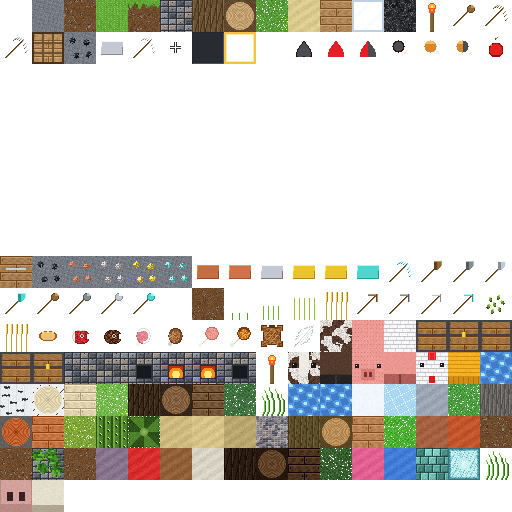
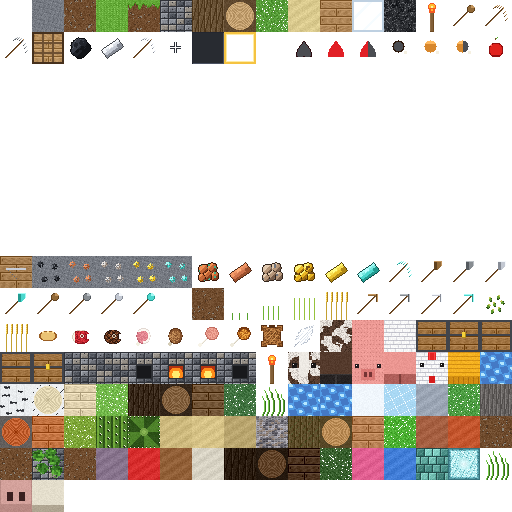
Give Coal, Raw Copper, Raw Iron, Raw Gold, and ingots distinct atlas textures

Changed region(s): [[0.375, 0.5, 0.75, 0.5625], [0.125, 0.0625, 0.25, 0.125]]

diff --git a/scripts/generate_roots_atlas.py b/scripts/generate_roots_atlas.py
@@ -961,20 +961,203 @@ def gen_tool_icon(material_head, tool_type="pickaxe"):
 def gen_ingot(color_light, color_mid, color_dark):
     img = create_tile_canvas()
     pix = img.load()
-    # Isometric retro metal ingot
-    for y in range(9, 23):
-        for x in range(5, 27):
-            in_top = (y <= 14)
-            if in_top:
-                if y == 9 or x == 5:
+    outline = (
+        max(0, color_dark[0] // 2),
+        max(0, color_dark[1] // 2),
+        max(0, color_dark[2] // 2),
+        255,
+    )
+    specular = (
+        min(255, color_light[0] + 20),
+        min(255, color_light[1] + 20),
+        min(255, color_light[2] + 20),
+        255,
+    )
+
+    # Angled isometric forged metal bar (trapezoidal top + front & right beveled faces)
+    def in_bar(x, y):
+        # Slanted bar running from bottom-left to top-right
+        u = (x - 16.0) * 0.82 - (y - 16.0) * 0.57
+        v = (x - 16.0) * 0.57 + (y - 16.0) * 0.82
+        return abs(u) <= 10.5 and abs(v) <= 5.4
+
+    mask = [[in_bar(x, y) for x in range(TILE_SIZE)] for y in range(TILE_SIZE)]
+    for y in range(TILE_SIZE):
+        for x in range(TILE_SIZE):
+            if not mask[y][x]:
+                continue
+            # Check 4-neighbor outline
+            is_edge = (
+                x == 0 or x == TILE_SIZE - 1 or y == 0 or y == TILE_SIZE - 1
+                or not mask[y - 1][x] or not mask[y + 1][x]
+                or not mask[y][x - 1] or not mask[y][x + 1]
+            )
+            if is_edge:
+                pix[x, y] = outline
+                continue
+
+            u = (x - 16.0) * 0.82 - (y - 16.0) * 0.57
+            v = (x - 16.0) * 0.57 + (y - 16.0) * 0.82
+
+            if v < -0.6:
+                # Top forged face with bright specular sheen band
+                if -2.5 <= u <= 1.8 and v < -1.5:
+                    pix[x, y] = specular
+                elif v < -2.8 or u < -6.5:
                     pix[x, y] = color_light
                 else:
-                    pix[x, y] = color_mid
-            else:
-                if y == 22 or x == 26:
+                    pix[x, y] = (
+                        (color_light[0] + color_mid[0]) // 2,
+                        (color_light[1] + color_mid[1]) // 2,
+                        (color_light[2] + color_mid[2]) // 2,
+                        255,
+                    )
+            elif v < 2.2:
+                # Front beveled face
+                if u > 5.0:
                     pix[x, y] = color_dark
                 else:
                     pix[x, y] = color_mid
+            else:
+                # Shaded lower bevel
+                pix[x, y] = color_dark
+    return img
+
+def gen_coal_item(seed=18):
+    img = create_tile_canvas()
+    pix = img.load()
+    # Irregular faceted lump of black coal (no stone block background)
+    lobes = [
+        (14.0, 13.0, 7.6),
+        (20.0, 15.5, 6.8),
+        (15.5, 20.0, 6.6),
+        (11.0, 18.0, 5.4),
+        (18.0, 10.5, 5.0),
+    ]
+
+    def inside_coal(x, y):
+        # Angular faceted distance distortion
+        n = hash2d(x // 2, y // 2, seed)
+        for cx, cy, r in lobes:
+            dx = x - cx
+            dy = y - cy
+            # Use L1/L2 blend for craggy crystal/coal facets
+            d = math.hypot(dx, dy) * 0.78 + (abs(dx) + abs(dy)) * 0.18
+            if d <= r + (n - 0.5) * 0.9:
+                return True
+        return False
+
+    mask = [[inside_coal(x, y) for x in range(TILE_SIZE)] for y in range(TILE_SIZE)]
+    outline = (10, 11, 14, 255)
+    deep_black = (18, 20, 24, 255)
+    mid_coal = (32, 35, 42, 255)
+    facet_light = (56, 60, 70, 255)
+    glint = (86, 92, 104, 255)
+
+    for y in range(TILE_SIZE):
+        for x in range(TILE_SIZE):
+            if not mask[y][x]:
+                continue
+            is_edge = (
+                x == 0 or x == TILE_SIZE - 1 or y == 0 or y == TILE_SIZE - 1
+                or not mask[y - 1][x] or not mask[y + 1][x]
+                or not mask[y][x - 1] or not mask[y][x + 1]
+            )
+            if is_edge:
+                pix[x, y] = outline
+                continue
+
+            # Facet plane shading: upper-left catches specular light, lower-right is deep soot
+            facet_id = ((x + y // 2) // 4 + (y - x // 2) // 5) % 3
+            light_bias = (16 - x) + (16 - y)
+            if light_bias > 7 and facet_id == 0:
+                pix[x, y] = glint
+            elif light_bias > 2:
+                pix[x, y] = facet_light if facet_id != 2 else mid_coal
+            elif light_bias > -5:
+                pix[x, y] = mid_coal if facet_id != 1 else deep_black
+            else:
+                pix[x, y] = deep_black
+    return img
+
+def gen_raw_ore_chunk(color_light, color_mid, color_dark, accent_color, seed=134):
+    img = create_tile_canvas()
+    pix = img.load()
+    # Multi-nugget craggy raw ore cluster (distinct irregular silhouette vs sleek ingot bar)
+    nodules = [
+        (11.5, 13.0, 5.8),
+        (19.5, 11.5, 5.6),
+        (15.5, 18.0, 6.2),
+        (22.0, 19.5, 5.0),
+        (10.0, 21.0, 4.6),
+    ]
+
+    def nodule_info(x, y):
+        best_i = -1
+        best_d = 999.0
+        second_d = 999.0
+        for i, (cx, cy, r) in enumerate(nodules):
+            dx = x - cx
+            dy = y - cy
+            d = (math.hypot(dx, dy) * 0.85 + max(abs(dx), abs(dy)) * 0.15) / r
+            if d < best_d:
+                second_d = best_d
+                best_d = d
+                best_i = i
+            elif d < second_d:
+                second_d = d
+        return best_i, best_d, second_d
+
+    mask = [[nodule_info(x, y)[1] <= 1.0 for x in range(TILE_SIZE)] for y in range(TILE_SIZE)]
+    outline = (
+        max(0, color_dark[0] // 2 - 8),
+        max(0, color_dark[1] // 2 - 8),
+        max(0, color_dark[2] // 2 - 8),
+        255,
+    )
+
+    for y in range(TILE_SIZE):
+        for x in range(TILE_SIZE):
+            if not mask[y][x]:
+                continue
+            is_edge = (
+                x == 0 or x == TILE_SIZE - 1 or y == 0 or y == TILE_SIZE - 1
+                or not mask[y - 1][x] or not mask[y + 1][x]
+                or not mask[y][x - 1] or not mask[y][x + 1]
+            )
+            if is_edge:
+                pix[x, y] = outline
+                continue
+
+            best_i, best_d, second_d = nodule_info(x, y)
+            cx, cy, _ = nodules[best_i]
+            # Crevice between fused nodules
+            if second_d - best_d < 0.08:
+                pix[x, y] = outline
+                continue
+
+            # Natural mineral accent flecks (e.g. verdigris on raw copper, rock matrix on raw iron)
+            fleck_val = hash2d(x // 2, y // 2, seed + 77)
+            if fleck_val < 0.22 and (best_i in (1, 3) or best_d > 0.65):
+                pix[x, y] = accent_color
+                continue
+
+            # Directional lighting per nodule
+            lx = x - cx
+            ly = y - cy
+            grain = int((hash2d(x, y, seed) - 0.5) * 16)
+            if lx + ly < -2.0:
+                base = color_light
+            elif lx + ly > 2.2 or best_d > 0.82:
+                base = color_dark
+            else:
+                base = color_mid
+            pix[x, y] = (
+                max(0, min(255, base[0] + grain)),
+                max(0, min(255, base[1] + grain)),
+                max(0, min(255, base[2] + grain)),
+                255,
+            )
     return img
 
 def gen_food_item(food_type="bread"):
@@ -1799,7 +1982,7 @@ def generate_roots_atlas():
     place(15, gen_tool_icon(mat_wood, "pickaxe"))
     place(16, gen_tool_icon(mat_stone, "pickaxe"))
     place(17, gen_crafting_table_top(117))
-    place(18, gen_ore([(45, 48, 52), (25, 28, 32), (12, 14, 16)], 18)) # coal item
+    place(18, gen_coal_item(18)) # Coal lump item
     place(19, gen_ingot(mat_iron[0], mat_iron[1], mat_iron[2]))
     place(20, gen_tool_icon(mat_iron, "pickaxe"))
 
@@ -1829,10 +2012,10 @@ def generate_roots_atlas():
     place(132, gen_ore([(255, 245, 110), (235, 195, 40), (175, 135, 20)], 132)) # Gold Ore
     place(133, gen_ore([(165, 250, 245), (75, 215, 205), (35, 155, 145)], 133)) # Diamond Ore
 
-    place(134, gen_ingot(mat_wood[0], (195, 110, 65, 255), (145, 75, 40, 255))) # Raw copper
+    place(134, gen_raw_ore_chunk((242, 146, 86), (196, 102, 54), (132, 62, 32), (66, 176, 138, 255), 134)) # Raw Copper (orange nuggets + verdigris)
     place(135, gen_ingot((245, 155, 105, 255), (205, 115, 75, 255), (155, 80, 45, 255))) # Copper Ingot
-    place(136, gen_ingot(mat_iron[0], mat_iron[1], (135, 120, 110, 255))) # Raw iron
-    place(137, gen_ingot(mat_gold[0], mat_gold[1], (175, 135, 20, 255))) # Raw gold
+    place(136, gen_raw_ore_chunk((226, 202, 176), (182, 150, 122), (118, 92, 74), (112, 116, 124, 255), 136)) # Raw Iron (warm tan ore nodules + stone matrix)
+    place(137, gen_raw_ore_chunk((255, 242, 118), (232, 182, 36), (164, 112, 18), (118, 78, 22, 255), 137)) # Raw Gold (craggy gold nugget cluster)
     place(138, gen_ingot(mat_gold[0], mat_gold[1], mat_gold[2])) # Gold Ingot
     place(139, gen_ingot(mat_diamond[0], mat_diamond[1], mat_diamond[2])) # Diamond Gem
     place(140, gen_tool_icon(mat_diamond, "pickaxe"))
